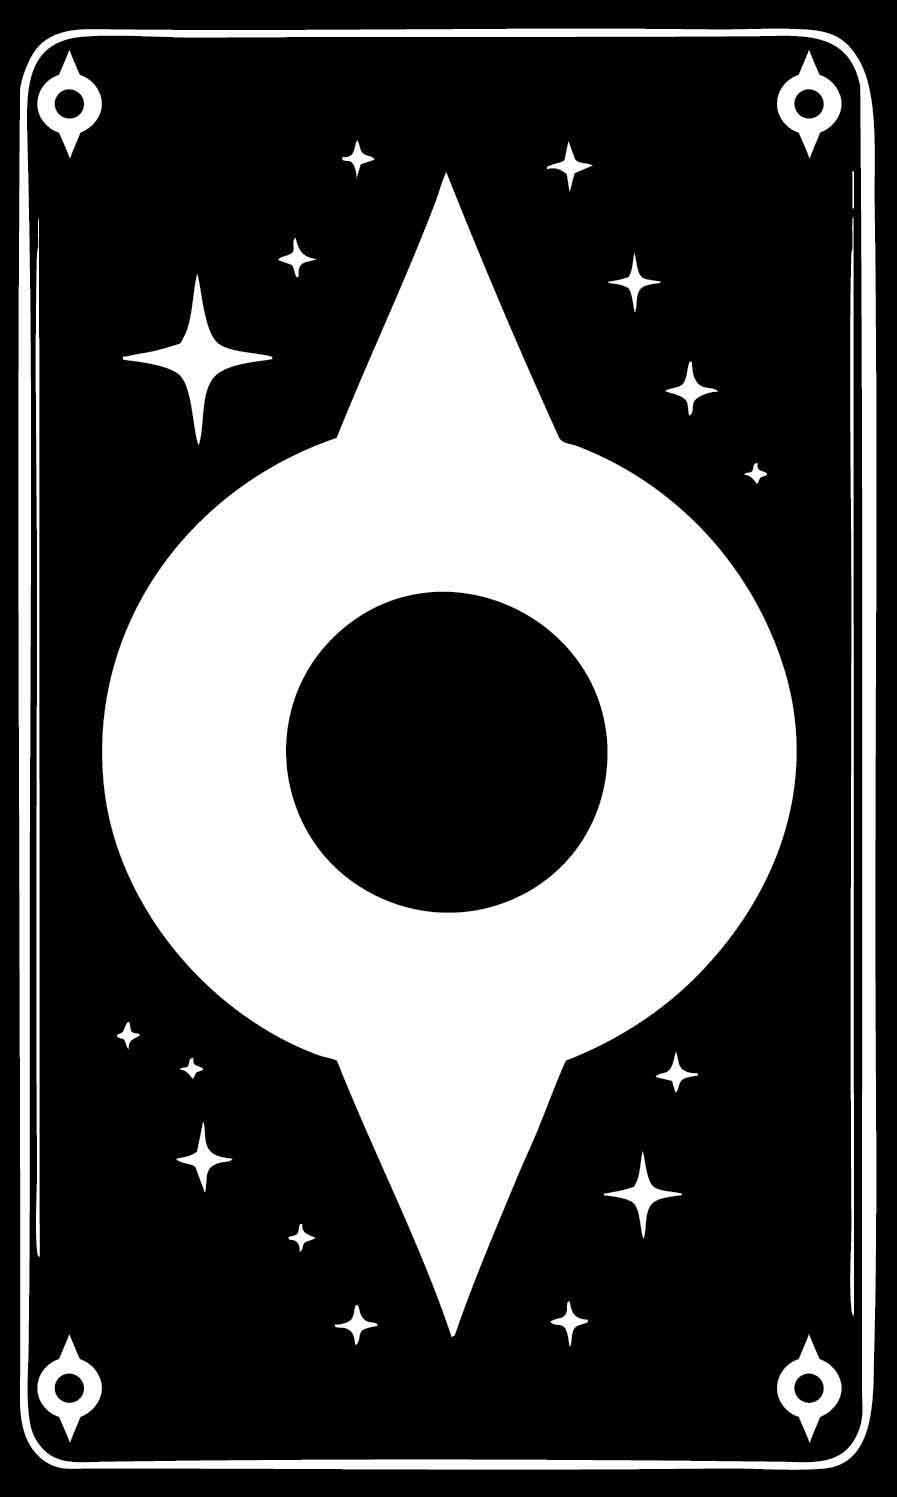
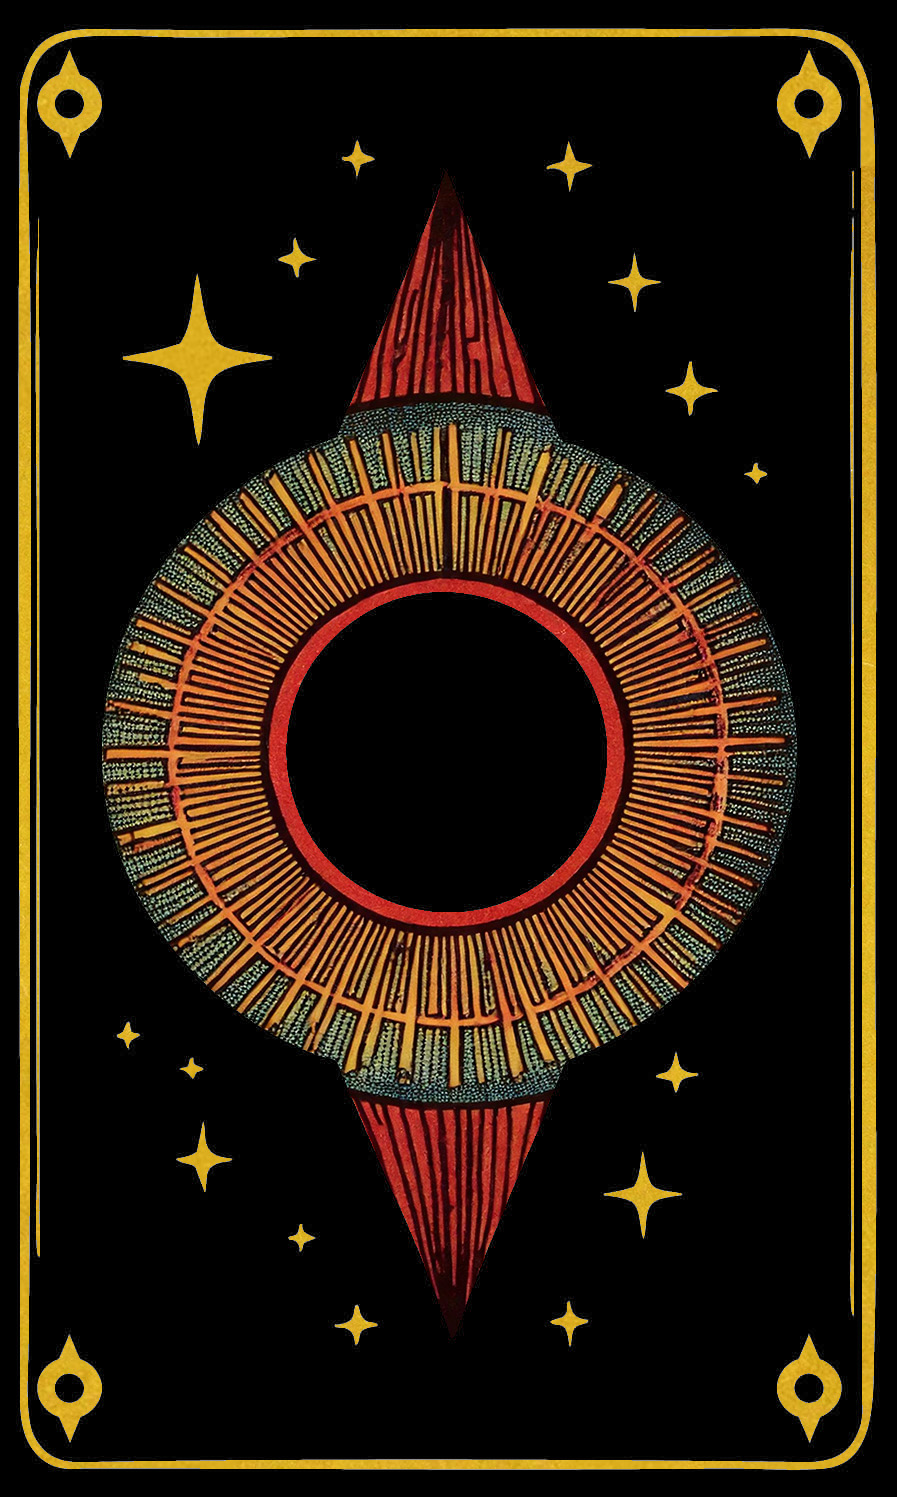
card back change

diff --git a/sketch.js b/sketch.js
@@ -73,7 +73,7 @@ function preload() {
   logo = loadImage('logo.png', () => {}, () => {});
   OUfont = loadFont('poppins.ttf', () => {}, () => {});
   descriptions = loadStrings("descriptions.txt");
-  backImage = loadImage("back2.jpg");
+  backImage = loadImage("back.jpg");
 }
 
 function setup() { 
